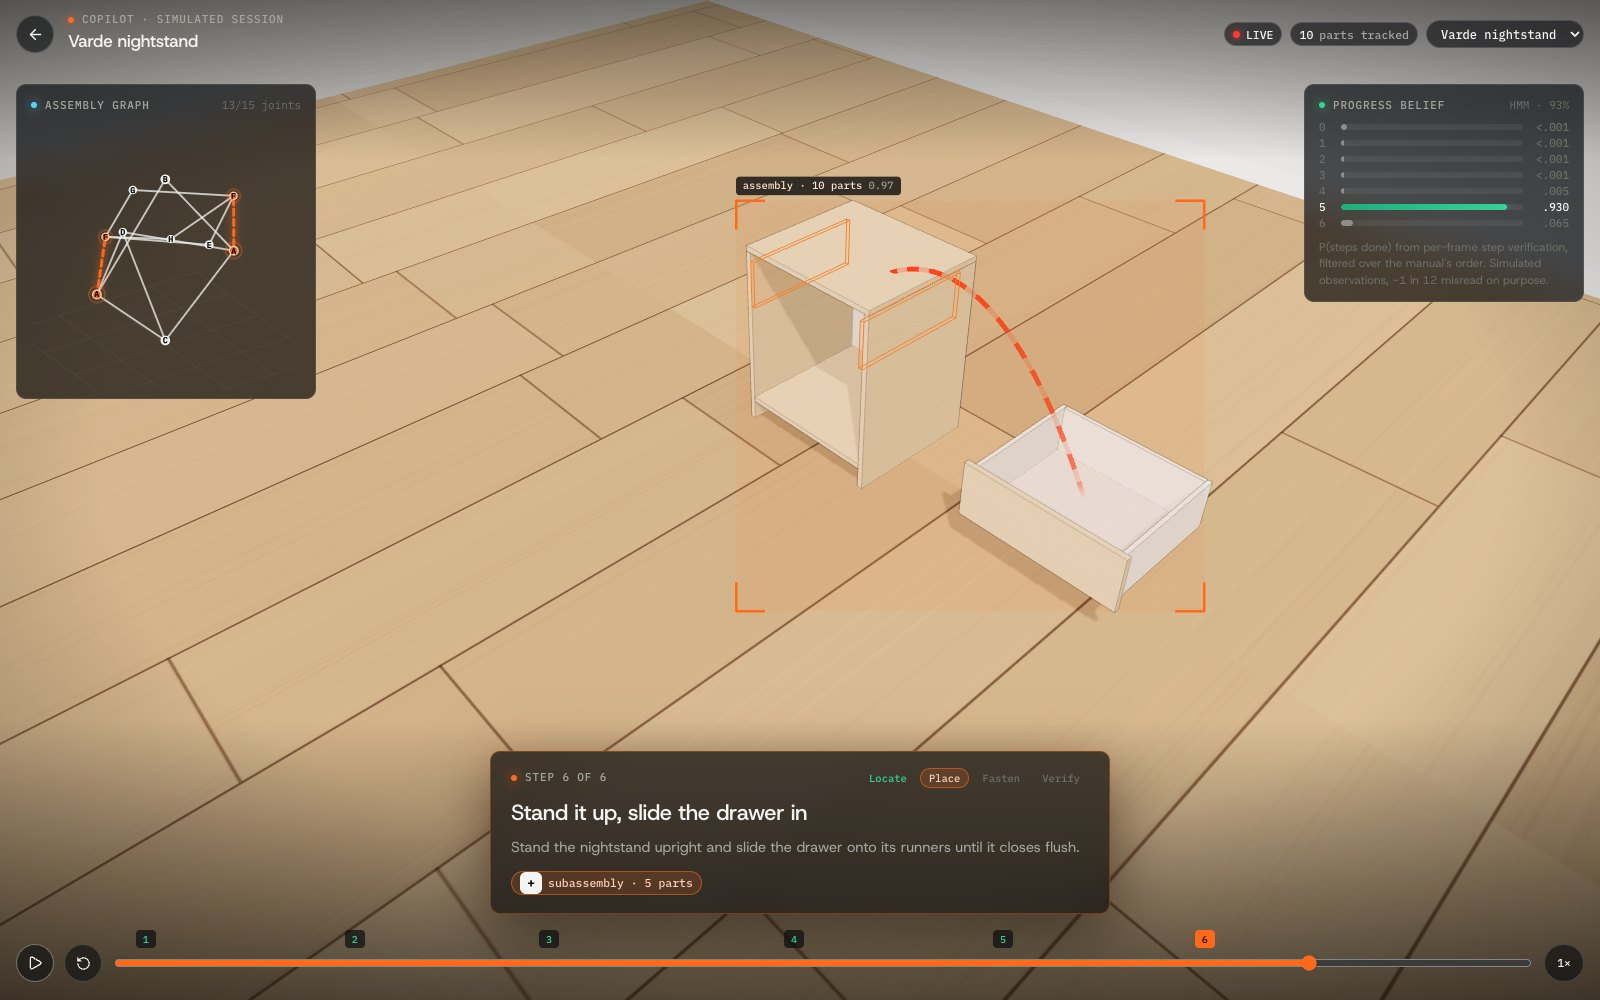
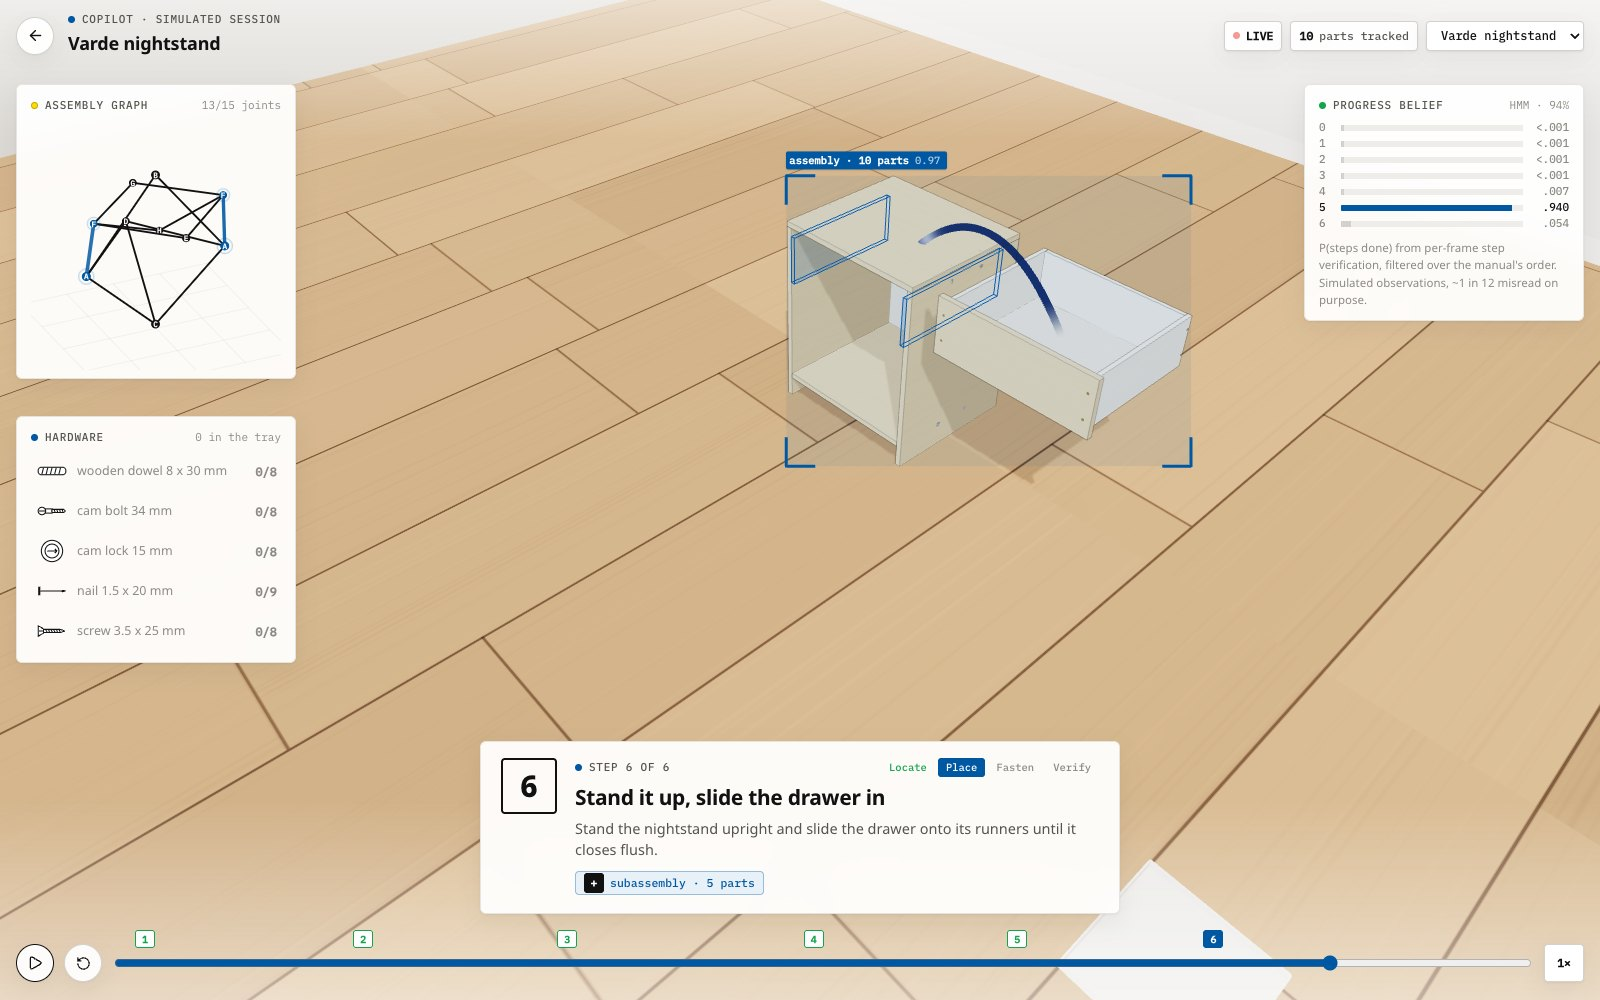
Open the README with an abstract and cite the research it builds on
The cover states the method and the measured results the way a paper's abstract would, the
guidance row covers the hardware, and a references table maps fifteen papers (HMMs, Viterbi,
forward-backward, transcript-constrained video decoding, manual-to-plan, IKEA-Manual, IKEA ASM,
Assembly101, HoloAssist, schema-constrained decoding, assembly instructions, exploded views,
assembly planning, union-find, the IKEA assembly environment) to where each shows up. The
README's images are re-shot in the light design.

diff --git a/README.md b/README.md
@@ -1,24 +1,33 @@
 <h1 align="center">Darius</h1>
 
 <p align="center">
-  <b>An AR copilot for flat-pack furniture.</b><br>
-  Show it the manual: it reads the pages into an <b>assembly graph</b> of parts, hardware, joints and steps.<br>
-  Point the phone at the build: it tracks your progress through that graph from the camera,<br>
-  and draws the next move in place: which part, where it goes, which way to turn the piece, where every screw goes in.
+  Flat-pack manuals parsed into assembly graphs · build video decoded against the graph with an HMM · AR guidance, down to every dowel and screw, rendered from the plan's geometry
 </p>
 
 <p align="center">
   <a href="https://github.com/DanielTong50/3d-visualization/actions/workflows/ci.yml"><img alt="CI" src="https://github.com/DanielTong50/3d-visualization/actions/workflows/ci.yml/badge.svg"></a>
-  <a href="https://danieltong50.github.io/3d-visualization/"><img alt="Live demo" src="https://img.shields.io/badge/demo-live-ff6a1a"></a>
+  <a href="https://danieltong50.github.io/3d-visualization/"><img alt="Live demo" src="https://img.shields.io/badge/demo-live-0058a3"></a>
   <img alt="Python 3.11" src="https://img.shields.io/badge/python-3.11-3776ab">
   <img alt="TypeScript" src="https://img.shields.io/badge/typescript-6-3178c6">
   <img alt="three.js" src="https://img.shields.io/badge/three.js-0.186-000000">
-  <img alt="Model" src="https://img.shields.io/badge/model-Muse%20Spark%201.3-5ccfff">
-  <img alt="Tests" src="https://img.shields.io/badge/tests-56%20passing-2ea44f">
+  <img alt="Model" src="https://img.shields.io/badge/model-Muse%20Spark%201.3-ffdb00">
+  <img alt="Tests" src="https://img.shields.io/badge/tests-72%20passing-2ea44f">
 </p>
 
-<p align="center"><img src="docs/media/copilot.jpg" alt="The copilot guiding step 3 of a bookcase: the side panel's ghost and arc, tracked parts, the assembly graph and the tracker's belief"></p>
-<p align="center"><sub>The copilot on step 3 of a bookcase: the part that goes on now is boxed in orange with a ghost at its target, loose parts are tracked in cyan, the assembly graph fills in (left) and the tracker's belief over "steps done" (right) comes from per-frame step verification.</sub></p>
+<p align="center"><img src="docs/media/copilot-fasten.jpg" alt="The copilot fastening step 1 of a bookcase: dowels flying from the tray into their holes, a close-up of the one going in, the hardware left in the tray, the assembly graph and the tracker's belief"></p>
+<p align="center"><sub>Step 1 of a bookcase, mid-fastening: each fitting flies from the tray to its hole and goes in (close-up, right), the hardware panel counts what is left, the assembly graph fills in, and the tracker's belief over "steps done" comes from per-frame step verification.</sub></p>
+
+**Abstract.** Darius treats a furniture manual as a graph *G = (P, J, S)*: parts *P* are nodes, joints *J* are edges
+that carry their hardware and the pose of every fastener, and steps *S* order the edges and fix how the piece lies.
+A vision-language model (Muse Spark 1.3) reads all pages of a manual in one request under a JSON-schema constraint, and
+a deterministic resolver turns the reading into a validated plan: repeated letters become part instances, parts drawn
+without an arrow are brought in, every connection resolves to a pair of instances. Build progress is the hidden state
+*k ∈ {0..|S|}* of a hidden Markov model whose emissions are per-frame step verifications, made with the manual's own
+step drawings as visual references; Viterbi gives the build history and forward–backward its confidence. Guidance is
+computed from the plan alone: every part's pose, every fitting's seat and every tool stroke, at every instant. On a
+four-product library with generated manuals and rendered sessions, the manual reader recovers **99.2%** of joints (edge
+F1) and **100%** of parts and hardware counts, and the tracker finds **18/18** build steps with a **0.80 s** mean timing
+error. Every number is a stored model run that CI re-scores on each commit.
 
 ## At a glance
 
@@ -64,7 +73,7 @@ guidance.
 | **Read** (`perception/manual.py`) | All pages go to Muse Spark in one request with a JSON schema: parts by letter with counts, hardware by article number, and for every step the parts brought in, the hardware box, the build orientation drawn and every pair of parts joined | The model only reads; `to_plan` builds the graph. Repeated letters become instances (`A1`, `A2`), each connection resolves to the piece brought in now, then one not yet paired, then the least joined, and the part a step builds on comes in even when it is drawn without an arrow. `validate` reports anything that does not add up |
 | **Verify** (`perception/frames.py`) | A few consecutive frames per request, with the plan's parts, what the build looks like after every step, **and the manual's step pages as reference images**; the model says which steps are done, how sure it is, which letters are joined and loose, and how the piece lies | Comparing the frame with the manual's own drawings: on the bookcase, scored the same way, it lifted the frames with the right progress from 81% to 91% and cut the mean timing error from 2.4 s to 0.5 s (the face-down back panel was missed without them) |
 | **Track** (`assembly/tracking.py`, mirrored in `engine/tracking.ts`) | A hidden Markov model over *k*, the number of steps done. Live, the forward algorithm updates the belief after every frame; for a whole video, Viterbi gives the most likely build history and forward-backward its confidence | A build follows the manual: transitions stay (.86), advance (.11), rarely skip (.02) or undo (.01). Each frame's P(step done) is capped to [.15, .85] and tempered by .7, so one misread frame cannot move the build |
-| **Guide** (`engine/choreography.ts`, `three/Stage.ts`) | Every instant of the build is computed from the plan: turn the piece to the step's orientation, locate the parts, carry them on arcs to their poses, fasten, verify | Subassemblies built on the side (a drawer box, a table's second frame) wait beside the work and join when their step comes; fastener markers come from each joint's hole pattern; detection boxes are the parts' projected geometry |
+| **Guide** (`engine/choreography.ts`, `three/Stage.ts`) | Every instant of the build is computed from the plan: turn the piece to the step's orientation, locate the parts, carry them on arcs to their poses, then fasten: each dowel, cam bolt, cam lock, screw, bolt, nail and shelf pin flies from the tray to its hole and goes in, driven by the step's tool, with a close-up of the piece going in | Seats come from each joint's hole pattern: dowels straddle the joint, screws and nails sit flush with the face they enter, cam locks sit in the face of the panel the bolt reaches into; seated fittings ride with their part through every turn. Subassemblies built on the side join as one piece; detection boxes are the parts' projected geometry |
 
 ### The assembly plan
 
@@ -177,6 +186,29 @@ cd engine && uv run modal deploy modal_app.py
   frame is misread, which the tests and the copilot demo exercise with injected misreads.
 - **Live mode answers in about 5 s per check** (one Muse Spark call with the step pages as reference), fine for
   furniture, where a step takes minutes, and too slow for anything faster.
+
+## References
+
+The methods Darius implements or builds on, and where each one shows up. Darius is independent work, not affiliated with
+these authors.
+
+| Paper | In Darius |
+|---|---|
+| L. R. Rabiner. *A Tutorial on Hidden Markov Models and Selected Applications in Speech Recognition.* Proc. IEEE, 1989 | The progress tracker: an HMM over "steps done", forward filtering live, recursions in log space |
+| A. J. Viterbi. *Error Bounds for Convolutional Codes and an Asymptotically Optimum Decoding Algorithm.* IEEE Trans. Inf. Theory, 1967 | The most likely build history of a video |
+| L. E. Baum, T. Petrie, G. Soules, N. Weiss. *A Maximization Technique Occurring in the Statistical Analysis of Probabilistic Functions of Markov Chains.* Ann. Math. Stat., 1970 | Forward–backward posteriors: the confidence of every decoded moment |
+| A. Richard, H. Kuehne, A. Iqbal, J. Gall. *NeuralNetwork-Viterbi: A Framework for Weakly Supervised Video Learning.* CVPR 2018 | Decoding a procedure video under an ordered transcript: the manual's steps constrain the path |
+| R. Wang, Y. Zhang, J. Mao, C.-Y. Cheng, J. Wu. *Translating a Visual LEGO Manual to a Machine-Executable Plan.* ECCV 2022 | Manual pages to an executable assembly plan, the manual reader's problem |
+| R. Wang, Y. Zhang, J. Mao, R. Zhang, C.-Y. Cheng, J. Wu. *IKEA-Manual: Seeing Shape Assembly Step by Step.* NeurIPS 2022 Datasets and Benchmarks | Manuals aligned with parts and assembly graphs, the representation Darius builds on |
+| Y. Ben-Shabat, X. Yu, F. Saleh, D. Campbell, C. Rodriguez-Opazo, H. Li, S. Gould. *The IKEA ASM Dataset: Understanding People Assembling Furniture through Actions, Objects and Pose.* WACV 2021 | Furniture assembly as video understanding, the video analyzer's setting |
+| F. Sener, D. Chatterjee, D. Shelepov, K. He, D. Singhania, R. Wang, A. Yao. *Assembly101: A Large-Scale Multi-View Video Dataset for Understanding Procedural Activities.* CVPR 2022 | Step recognition and progress in procedural assembly video, the tracker's task |
+| X. Wang, T. Kwon, M. Rad, B. Pan, I. Chakraborty, et al. *HoloAssist: an Egocentric Human Interaction Dataset for Interactive AI Assistants in the Real World.* ICCV 2023 | An assistant that watches a task and guides it, the copilot's interaction model |
+| B. T. Willard, R. Louf. *Efficient Guided Generation for Large Language Models.* arXiv, 2023 | JSON-schema-constrained decoding, used for every model reading |
+| M. Agrawala, D. Phan, J. Heiser, J. Haymaker, J. Klingner, P. Hanrahan, B. Tversky. *Designing Effective Step-by-Step Assembly Instructions.* SIGGRAPH 2003 | Instructions generated from geometry: the generated manuals |
+| W. Li, M. Agrawala, B. Curless, D. Salesin. *Automated Generation of Interactive 3D Exploded View Diagrams.* SIGGRAPH 2008 | Explosion directions from blocking constraints: how a manual drawing pulls each part out |
+| R. H. Wilson, J.-C. Latombe. *Geometric Reasoning About Mechanical Assembly.* Artificial Intelligence, 1994 | Removal directions among the parts in place: the sweep test behind the free way in |
+| R. E. Tarjan. *Efficiency of a Good But Not Linear Set Union Algorithm.* J. ACM, 1975 | Union-find: the subassemblies after every step |
+| Y. Lee, E. S. Hu, J. J. Lim. *IKEA Furniture Assembly Environment for Long-Horizon Complex Manipulation Tasks.* ICRA 2021 | Furniture as parts with connection points, the structure the flat-pack compiler produces |
 
 ## History
 
